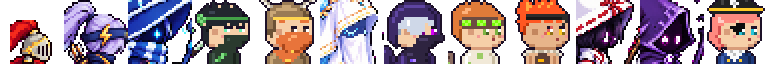
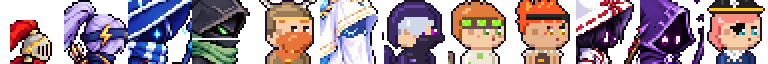
하야테 일러스트 적용 (두건 머리 + 두 번째 그림의 몸 합성)
Claude-Session: https://claude.ai/code/session_01Fxb29UthuHm5NupsxcALjM

Changed region(s): [[0.25, 0.0, 0.3438, 1.0]]

diff --git a/index.html b/index.html
@@ -8,24 +8,24 @@
   <link rel="preconnect" href="https://fonts.googleapis.com">
   <link rel="preconnect" href="https://fonts.gstatic.com" crossorigin>
   <link href="https://fonts.googleapis.com/css2?family=Black+Han+Sans&family=Noto+Sans+KR:wght@400;700;900&display=swap" rel="stylesheet">
-  <link rel="stylesheet" href="style.css?v=202610210931">
-  <script>window.__ASSET_V = '202610210931';</script>
+  <link rel="stylesheet" href="style.css?v=202610210955">
+  <script>window.__ASSET_V = '202610210955';</script>
   <script type="importmap">
   {
     "imports": {
-      "./src/data.js": "./src/data.js?v=202610210931",
-      "./src/maps.js": "./src/maps.js?v=202610210931",
-      "./src/sim.js": "./src/sim.js?v=202610210931",
-      "./src/mapgen.js": "./src/mapgen.js?v=202610210931",
-      "./src/fx.js": "./src/fx.js?v=202610210931",
-      "./src/render.js": "./src/render.js?v=202610210931",
-      "./src/audio.js": "./src/audio.js?v=202610210931",
-      "./src/net.js": "./src/net.js?v=202610210931",
-      "./src/save.js": "./src/save.js?v=202610210931",
-      "./src/ui.js": "./src/ui.js?v=202610210931",
-      "./src/cloud.js": "./src/cloud.js?v=202610210931",
-      "./src/social.js": "./src/social.js?v=202610210931",
-      "./src/config.js": "./src/config.js?v=202610210931"
+      "./src/data.js": "./src/data.js?v=202610210955",
+      "./src/maps.js": "./src/maps.js?v=202610210955",
+      "./src/sim.js": "./src/sim.js?v=202610210955",
+      "./src/mapgen.js": "./src/mapgen.js?v=202610210955",
+      "./src/fx.js": "./src/fx.js?v=202610210955",
+      "./src/render.js": "./src/render.js?v=202610210955",
+      "./src/audio.js": "./src/audio.js?v=202610210955",
+      "./src/net.js": "./src/net.js?v=202610210955",
+      "./src/save.js": "./src/save.js?v=202610210955",
+      "./src/ui.js": "./src/ui.js?v=202610210955",
+      "./src/cloud.js": "./src/cloud.js?v=202610210955",
+      "./src/social.js": "./src/social.js?v=202610210955",
+      "./src/config.js": "./src/config.js?v=202610210955"
     }
   }
   </script>
@@ -45,6 +45,6 @@
     <div id="aug" hidden></div>
     <div id="menu" class="overlay"></div>
   </div>
-  <script type="module" src="./src/main.js?v=202610210931"></script>
+  <script type="module" src="./src/main.js?v=202610210955"></script>
 </body>
 </html>

diff --git a/src/data.js b/src/data.js
@@ -319,6 +319,7 @@ export const HERO_SHEETS = {
   archer: { file: 'hero_archer.png', cell: 72, scale: 1.0 },
   mage: { file: 'hero_mage.png', cell: 104, scale: 0.78 },
   miko: { file: 'hero_miko.png', cell: 104, scale: 0.78 },
+  ninja: { file: 'hero_ninja.png', cell: 112, scale: 0.74 },
   priest: { file: 'hero_priest.png', cell: 104, scale: 0.78 },
   reaper: { file: 'hero_reaper.png', cell: 128, scale: 0.72 },
 };

diff --git a/tools/hero_art.py b/tools/hero_art.py
@@ -316,6 +316,8 @@ HEROES['ninja'] = dict(
         'n...VVVV.',
     ], pivot=(1, 1)),
     kind='melee', legs=('p', 'o', 'O'), arm='a', glove='C', reach=4,
+    sprite=dict(file='tools/art/ninja.png', cell=112, scale=0.74, weapon_from=(78, 56), pivot=(78, 62), legs=(80, 52), face=(48, 11, 32),
+                ang=dict(rest=0, windup=-30, strike=25, follow=35, hurt=8, win=-20), push=dict(windup=-1, strike=3, follow=2)),
 )
 # 두 번째 단검은 등에 꽂음
 HEROES['ninja']['back'] = [([
